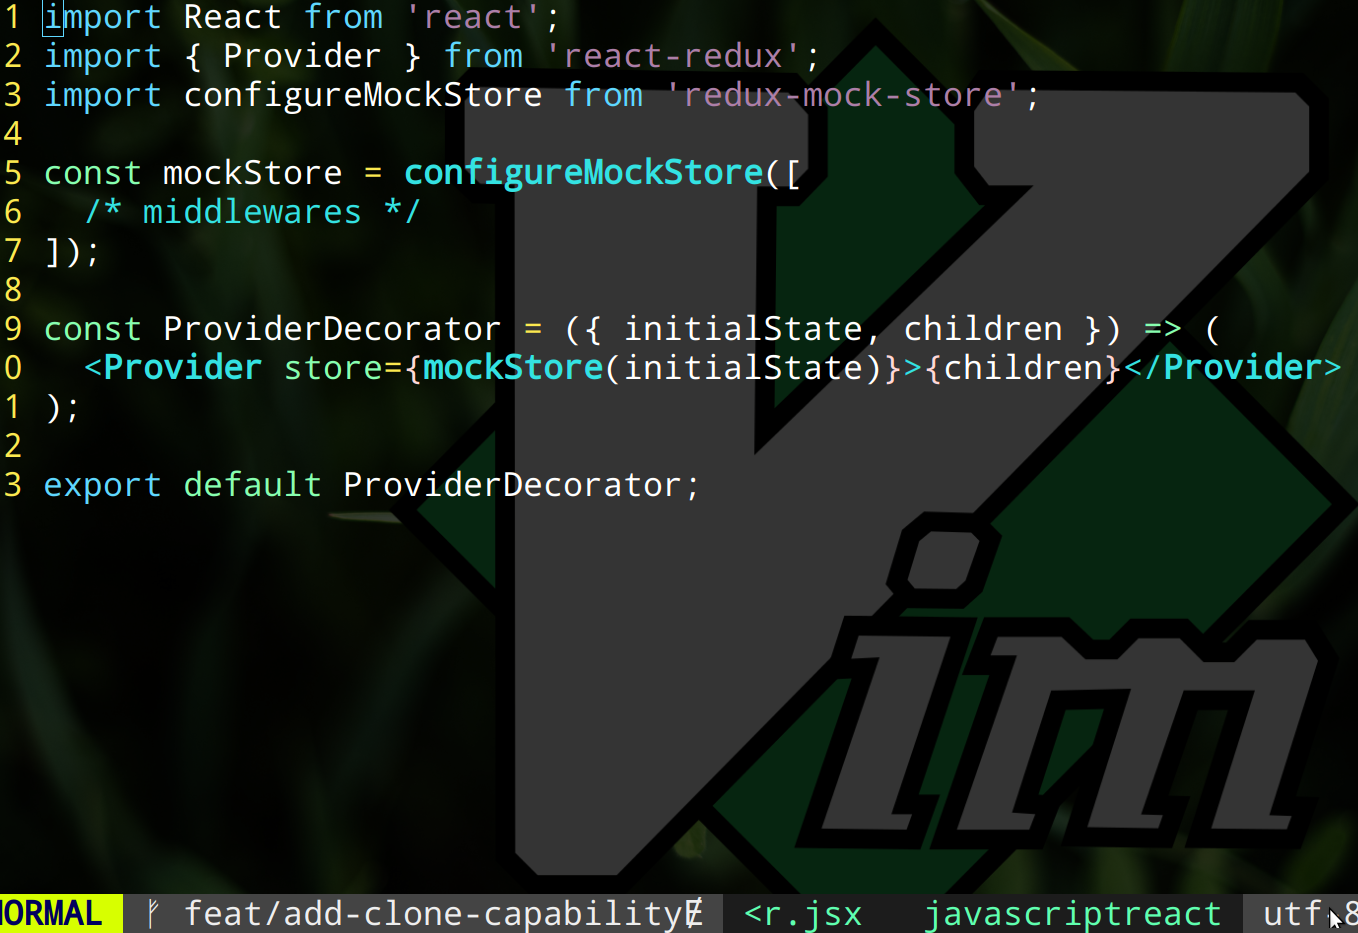
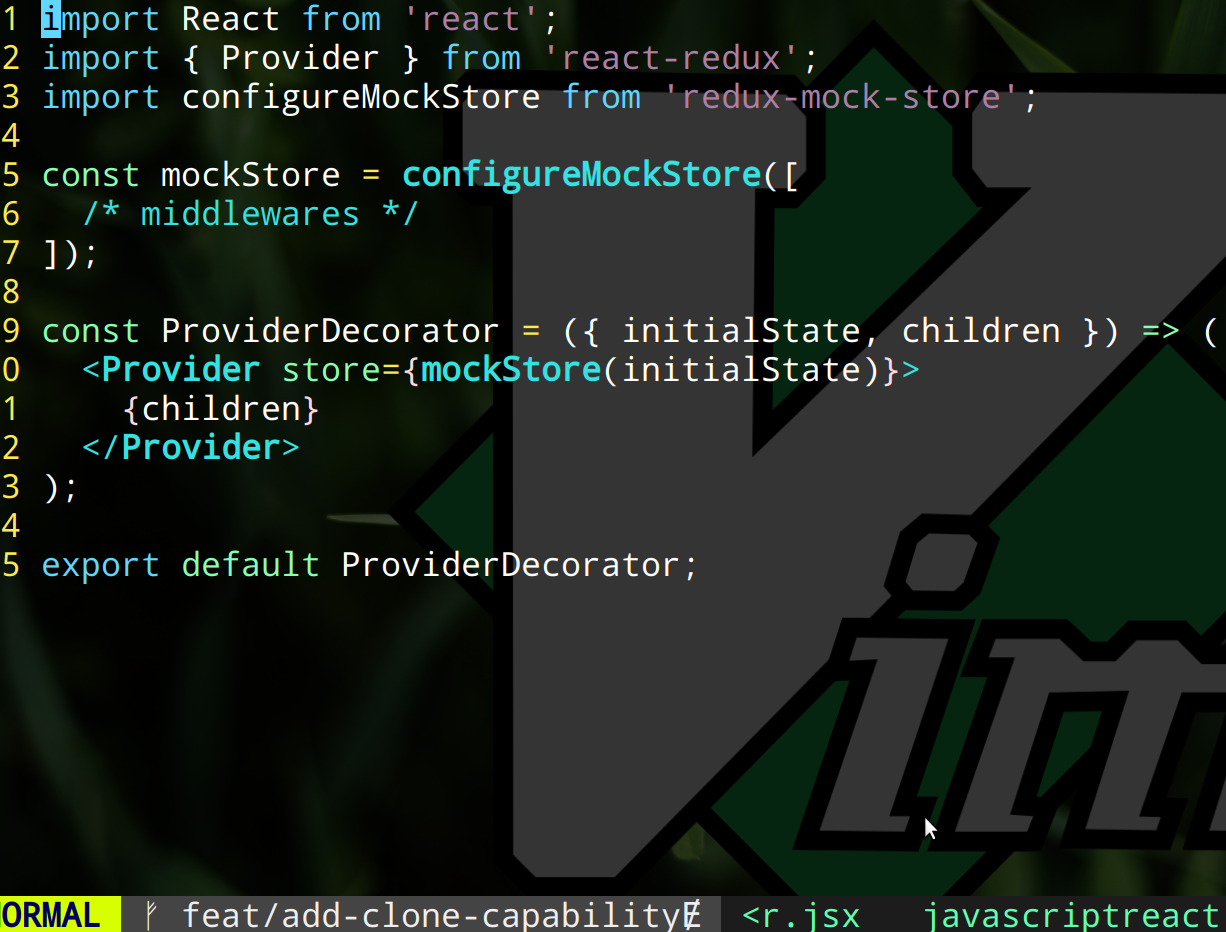
Begin adding instructs for global state

diff --git a/web/docs/using-storybook-to-drive-development.md b/web/docs/using-storybook-to-drive-development.md
@@ -24,7 +24,10 @@ First, let's add [Storybook](https://storybook.js.org/) to the project.  Storybo
 
 ```bash
 git clone git@github.com:WillSams/example-js-react-with-python.git tutorial
-cd tutorial/frontend
+
+# Let's remove the git history so we can start fresh
+cd tutorial && rm -rf .git
+git init && git add . && git commit -m "Initial commit"
 
 # if you are using nvm
 nvm use  
@@ -33,6 +36,8 @@ nvm use
 # a new branch for feature development
 git checkout -b feat/add-clone-capability  
 
+# Now let's add Storybook
+cd tutorial/frontend
 npx --yes -p @storybook/cli sb init --type react
 # NOTE:  when prompted, say "no" to more no to more eslint rules
 ```
@@ -213,7 +218,7 @@ export default ProviderDecorator;" >| .storybook/ProviderDecorator.jsx
 
 ![14](assets/images/storybook/14.png)
 
-Now let's write our a story to help us build out our component:
+Now let's write our a stories to help us build out our component:
 
 ```bash
 echo "import CloneReservationComponent from '@/screens/reservations/clone';
@@ -260,23 +265,21 @@ const loadingState = {
     },
   },
 };
+
 export const Loading = {
   decorators: [
     (story) => (
       <ProviderDecorator initialState={loadingState} children={story()} />
     ),
   ],
-};" >| stories/screens/reservations/clone.stories.jsx
+}" >| stories/screens/reservations/clone.stories.jsx
 ```
 
-**todo** insert pic here - the story listed above
-
-**todo** insert pic here - the storybook screen re-iterating the below statement
+![15](assets/images/storybook/15.png)
 
 Looking at Storybook, the visual look of `Default` and `Loading` look the same.  Let's start by modifying the UI of the component to design what it should look like.
 
-We'll begin this by writing a test to ensure that the loading state is being handled.  We'll modify the original test to pass and the second test
-to fail (NOTE: cheating here for brevity of this example, we should normally focus on one test at a time):
+We'll begin this by writing a test to ensure that the loading state is being handled.  We'll modify the original test to pass and the second test to fail (NOTE: cheating here for brevity of this example, we should normally focus on one test at a time):
 
 ```bash
 echo "import { screen } from '@testing-library/react';
@@ -290,22 +293,22 @@ import CloneReservationComponent from '@/screens/reservations/clone';
 import { render } from '../../reactTestHelpers';
 
 describe('CloneReservationComponent', () => {
-  it('should render component once loaded', async () => {
-    const pathname = '/reservations/clones';
-    const initialEntries = [pathname];
-    const initialState = {
-      shared: { ...defaultShared },
-      router: { location: { pathname } },
-      site: {
-        reservations: {
-          cloneReservation: {
-            loading: false,
-            reservationId: 999,
-          },
+  const pathname = '/reservations/clones';
+  const initialState = {
+    shared: { ...defaultShared },
+    router: { location: { pathname } },
+    site: {
+      reservations: {
+        cloneReservation: {
+          loading: false,
+          reservationId: 999,
         },
       },
-    };
+    },
+  };
 
+  it('should render component once loaded', async () => {
+    const initialEntries = [pathname];
     const ui = <CloneReservationComponent />;
     render(ui, { initialState, initialEntries });
 
@@ -315,51 +318,48 @@ describe('CloneReservationComponent', () => {
   });
 
   it('should render loading animation if screen is loading', async () => {
-    const pathname = '/reservations/clones';
     const initialEntries = [pathname];
-    const initialState = {
-      shared: { ...defaultShared },
-      router: { location: { pathname } },
+    const loadingState = {
+      ...initialState,
       site: {
         reservations: {
           cloneReservation: {
             loading: true,
-            reservationId: 999,
+            reservation_id: 999,
           },
         },
       },
     };
-
     const ui = (
       <div>
         <CloneReservationComponent />
       </div>
     );
 
-    render(ui, { initialState, initialEntries });
+    render(ui, { initialState: loadingState, initialEntries });
 
-    const image = screen.getByAltText('Loading'); // Adjust this selector based on how you've set up the alt text
+    const image = screen.getByAltText('Loading');
     expect(image).toBeInTheDocument();
     expect(image.src).toContain('/img/loading.gif');
   });
 });" >| specs/screens/reservations/clone.spec.jsx
 ```
 
-**todo** insert pic here
+![16](assets/images/storybook/16.png)
 
 ```bash
 jest specs/screens/reservations/clone.spec.jsx  # test fails
 ```
 
-**todo** insert pic here
+![17](assets/images/storybook/17.png)
 
 Now let's modify the CloneReservation component to handle the loading state...:
 
 ```bash
-echo "import React from 'react';
+echo 'import React from "react";
 
-import { useSelector } from 'react-redux';
-import { Loading } from '@/shared/components';
+import { useSelector } from "react-redux";
+import { Loading } from "@/shared/components";
 
 const CloneReservationComponent = () => {
   const loading = useSelector(state => state?.site?.reservations?.cloneReservation?.loading);
@@ -371,10 +371,10 @@ const CloneReservationComponent = () => {
   );
 };
 
-export default CloneReservationComponent;" >| src/screens/reservations/clone.jsx
+export default CloneReservationComponent;' >| src/screens/reservations/clone.jsx
 ```
 
-**todo** insert pic here
+![18](assets/images/storybook/18.png)
 
 ...and to pass our test:
 
@@ -382,7 +382,16 @@ export default CloneReservationComponent;" >| src/screens/reservations/clone.jsx
 jest specs/screens/reservations/clone.spec.jsx  # test passes
 ```
 
-**todo** insert pic here
+![19](assets/images/storybook/19.png)
+
+Now let's commit our changes:
+
+```bash
+git add .
+git commit -m "Add loading indicator to clone component for async actions"
+```
+
+![20](assets/images/storybook/20.png)
 
 ## 3b - Connect the Screen Component to the Global State
 
@@ -390,25 +399,27 @@ Great!  Now let's use [Redux-Saga](https://redux-saga.js.org/) to load the reser
   
 ```bash
 sed -e "/GET_RESERVATION: 'site\/reservations\/show\/GET_RESERVATION',/r"<(
-echo "
+echo '
 LOAD_CLONE_RESERVATION_COMPONENT:
-'site/reservations/clone/LOAD_CLONE_RESERVATION_COMPONENT',
+"site/reservations/clone/LOAD_CLONE_RESERVATION_COMPONENT",
   LOAD_CLONE_RESERVATION_COMPONENT_SUCCESS:
-    'site/reservations/clone/LOAD_CLONE_RESERVATION_COMPONENT_SUCCESS',
+    "site/reservations/clone/LOAD_CLONE_RESERVATION_COMPONENT_SUCCESS",
   LOAD_CLONE_RESERVATION_COMPONENT_FAILED:
-    'site/reservations/clone/LOAD_CLONE_RESERVATION_COMPONENT_SUCCESS',
+    "site/reservations/clone/LOAD_CLONE_RESERVATION_COMPONENT_SUCCESS",
 
   UNLOAD_CLONE_RESERVATION_COMPONENT:
-    'site/reservations/clone/UNLOAD_CLONE_RESERVATION_COMPONENT',
+    "site/reservations/clone/UNLOAD_CLONE_RESERVATION_COMPONENT",
   UNLOAD_CLONE_RESERVATION_COMPONENT_SUCCESS:
-    'site/reservations/clone/UNLOAD_CLONE_RESERVATION_COMPONENT_SUCCESS',
+    "site/reservations/clone/UNLOAD_CLONE_RESERVATION_COMPONENT_SUCCESS",
   UNLOAD_CLONE_RESERVATION_COMPONENT_FAILED:
-    'site/reservations/clone/UNLOAD_CLONE_RESERVATION_COMPONENT_SUCCESS',
+    "site/reservations/clone/UNLOAD_CLONE_RESERVATION_COMPONENT_SUCCESS",
 
-  CLONE_RESERVATION_COMPONENT: 'site/reservations/CLONE_RESERVATION_COMPONENT',
-  COPY_RESERVATION: 'site/reservations/clone/COPY_RESERVATION',"
+  CLONE_RESERVATION_COMPONENT: "site/reservations/CLONE_RESERVATION_COMPONENT",
+  COPY_RESERVATION: "site/reservations/clone/COPY_RESERVATION",'
   ) -i -- src/shared/base/actionCreators.js
 ```
+
+![21](assets/images/storybook/21.png)
 
 Next, the reducer.  We'll create a new file for it and add it to the **reservations screen reducer** file and the main **screens reducer** file:
   
